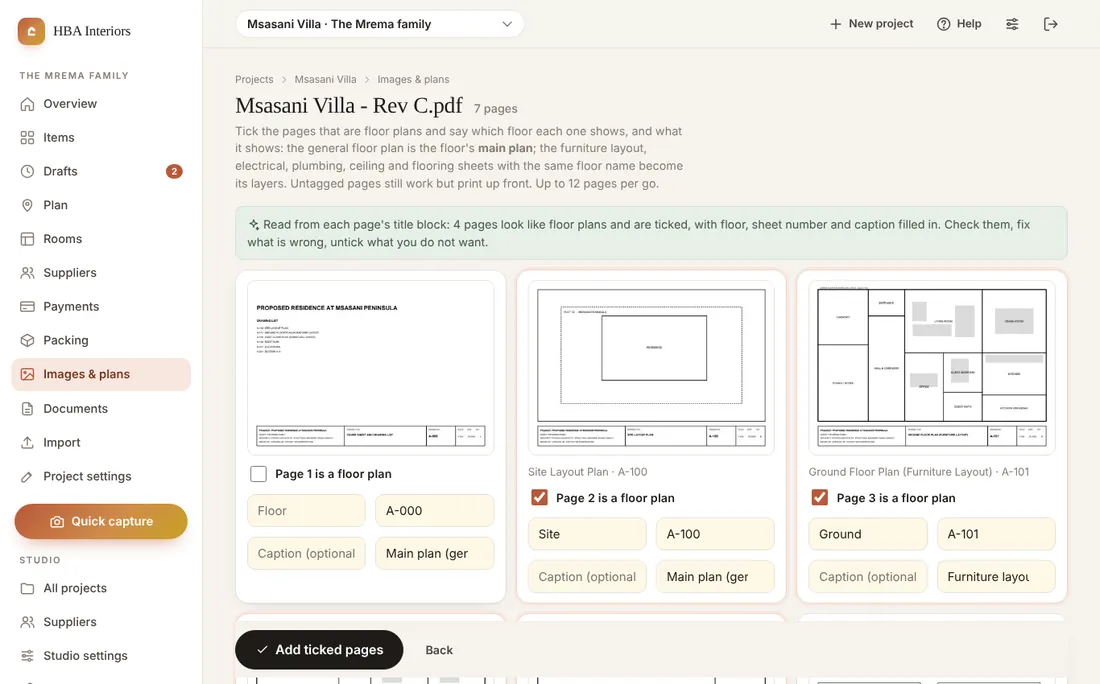
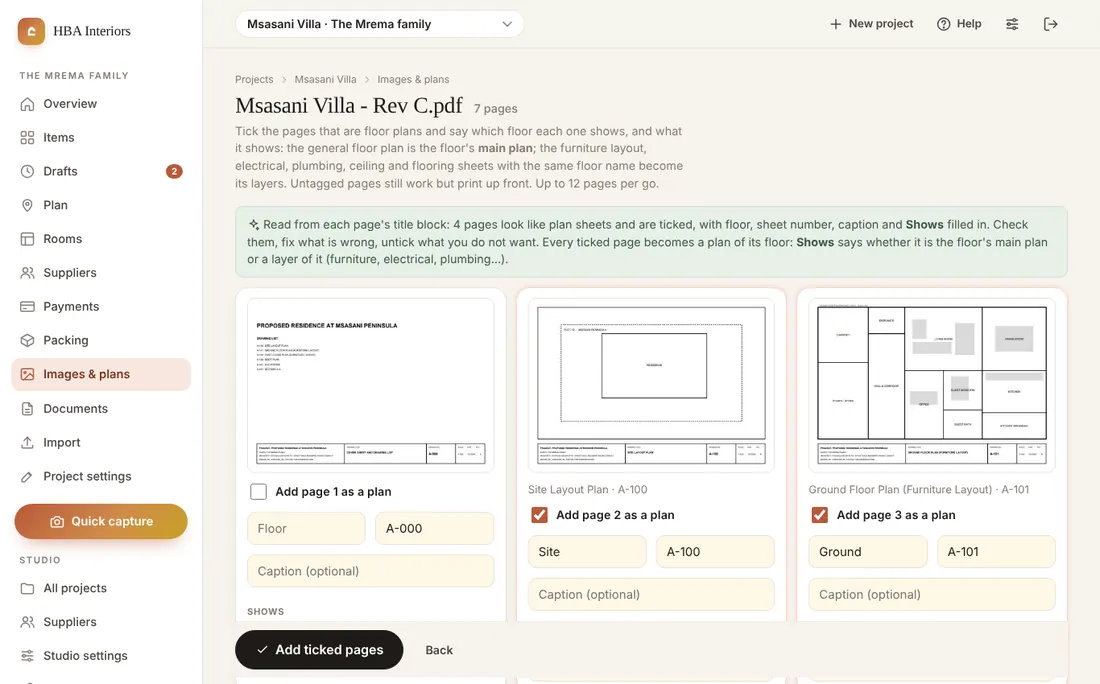
Page picker: say what the tick and the Shows box do
Every ticked page is a plan sheet; the Shows box decides whether it is the floor's main plan or a layer of it.
The tick used to read "Page n is a floor plan", which made every sheet look like the same thing, and the
Shows select had no label and truncated its options.

- Tick reads "Add page n as a plan"; the caption spans the card and the Shows select sits on its own labelled
  row, so "Main plan (general floor plan)" and the layer choices read in full.
- The reader's note explains the two roles; the page help and the guide tell how to add a sheet as a layer
  (same floor as the main plan, pick the layer under Shows).
- Guide picture regenerated; tests follow the new wording.

Claude-Session: https://claude.ai/code/session_014dEEg4ZJoqKU3XFXeCpon9

diff --git a/ffe/app/templates/projects/pdf_pages.html b/ffe/app/templates/projects/pdf_pages.html
@@ -9,7 +9,7 @@
   </div>
 </div>
 {% if err %}<div class="alert err">{{ err }}</div>{% endif %}
-{% if meta and n_suggested %}<div class="alert"><svg class="ic sm"><use href="#i-sparkle"/></svg> Read from each page's title block: {{ n_suggested }} page{{ '' if n_suggested == 1 else 's' }} look{{ 's' if n_suggested == 1 }} like {{ 'a floor plan and is' if n_suggested == 1 else 'floor plans and are' }} ticked, with floor, sheet number and caption filled in. Check them, fix what is wrong, untick what you do not want.</div>
+{% if meta and n_suggested %}<div class="alert"><svg class="ic sm"><use href="#i-sparkle"/></svg> Read from each page's title block: {{ n_suggested }} page{{ '' if n_suggested == 1 else 's' }} look{{ 's' if n_suggested == 1 }} like {{ 'a plan sheet and is' if n_suggested == 1 else 'plan sheets and are' }} ticked, with floor, sheet number, caption and <b>Shows</b> filled in. Check them, fix what is wrong, untick what you do not want. Every ticked page becomes a plan of its floor: <b>Shows</b> says whether it is the floor's main plan or a layer of it (furniture, electrical, plumbing…).</div>
 {% elif meta %}<div class="alert info">Read from each page's title block: nothing more here looks like a floor plan. Tick any page you want anyway; sheet numbers are filled in where they were found.</div>
 {% elif set.pages %}<div class="alert info">Nothing could be read from this PDF's pages (a scan, or a set uploaded before this version), so nothing is prefilled. Tick the plan pages and type the floor and sheet number.</div>{% endif %}
 <datalist id="floors">{% for f in floors %}<option value="{{ f }}">{% endfor %}</datalist>
@@ -22,12 +22,12 @@
       {% if a %}
       <div class="mt"><span class="pill sage"><svg class="ic"><use href="#i-check"/></svg>Added{% if a.floor %} · {{ plan_caption(a) }}{% endif %}</span></div>
       {% else %}
-      <label class="check mt"><input type="checkbox" name="page_{{ k }}"{% if m and m.is_plan %} checked{% endif %}> Page {{ k }} is a floor plan</label>
+      <label class="check mt"><input type="checkbox" name="page_{{ k }}"{% if m and m.is_plan %} checked{% endif %}> Add page {{ k }} as a plan</label>
       <div class="grid g2 stack mt">
         <input class="in" type="text" name="floor_{{ k }}" list="floors" value="{{ (m.floor if m and m.floor else floor) }}" placeholder="Floor" aria-label="Floor for page {{ k }}" autocomplete="off">
         <input class="in" type="text" name="sheet_{{ k }}" value="{{ (m.sheet if m and m.sheet else sheet) }}" placeholder="Sheet ref" aria-label="Sheet for page {{ k }}">
-        <input class="in" type="text" name="caption_{{ k }}" value="{{ captions.get(k, '') if m else '' }}" placeholder="Caption (optional)" aria-label="Caption for page {{ k }}">
-        <select class="in" name="layer_{{ k }}" aria-label="What page {{ k }} shows">{% set lk = layers.get(k, MAIN_LAYER) if m else MAIN_LAYER %}{% for key, title in LAYER_OPTIONS %}<option value="{{ key }}" {{ 'selected' if lk == key }}>{{ title }}</option>{% endfor %}</select>
+        <input class="in span2" type="text" name="caption_{{ k }}" value="{{ captions.get(k, '') if m else '' }}" placeholder="Caption (optional)" aria-label="Caption for page {{ k }}">
+        <div class="span2 shows"><label for="layer_{{ k }}">Shows</label><select class="in" id="layer_{{ k }}" name="layer_{{ k }}">{% set lk = layers.get(k, MAIN_LAYER) if m else MAIN_LAYER %}{% for key, title in LAYER_OPTIONS %}<option value="{{ key }}" {{ 'selected' if lk == key }}>{{ title }}</option>{% endfor %}</select></div>
       </div>
       {% endif %}
     </div>

diff --git a/ffe/app/templates/help.html b/ffe/app/templates/help.html
@@ -294,6 +294,7 @@
   <ul>
     <li>At upload, the app reads the <b>title block</b> of every page: the drawing title ("Ground Floor Plan (Furniture Layout)"), the sheet number after "Drawing No" (A-101) and the floor the title names.</li>
     <li>Pages titled floor / roof / site plan are <b>ticked</b>, with floor, sheet and caption filled in. Elevations, sections, services drawings, notes that refer to a plan and cover sheets with a drawing list are left unticked.</li>
+    <li><b>Main plan or layer?</b> Every ticked page is a plan sheet; the <b>Shows</b> box under it decides what kind. Leave "Main plan (general floor plan)" for the floor's general plan. For an electrical, plumbing, ceiling, flooring or furniture sheet, give the page the <i>same floor</i> as that main plan and choose its layer under Shows: it lands under the floor's Sheet switch on the Plan page and borrows the room boxes. The reader prefills Shows from the title ("Electrical Layout Plan" → Electrical &amp; lighting); a sheet titled only "Ground Floor Plan" is offered as the main plan, so change Shows yourself when such a sheet is really a layer.</li>
     <li>Check, correct, untick, and press <b>Add ticked pages</b>. Nothing is added until you do.</li>
     <li>A <b>scanned PDF</b> has no text to read, so nothing is prefilled: tick the plan pages and type the floor yourself.</li>
   </ul>

diff --git a/ffe/app/static/app.css b/ffe/app/static/app.css
@@ -203,6 +203,9 @@ tbody tr:hover td,tr:hover td{background:var(--surface-2)}
 td.num,th.num{text-align:right;font-variant-numeric:tabular-nums;white-space:nowrap}
 td.nowrap{white-space:nowrap}
 .tbl table td:first-child,.tbl table th:first-child{padding-left:16px}.tbl table td:last-child,.tbl table th:last-child{padding-right:16px}
+/* the page picker: the Shows select gets a label of its own, so main plan vs layer is a visible choice */
+.pages .page .shows{display:grid;gap:4px}
+.pages .page .shows label{font-size:.7rem;font-weight:700;letter-spacing:.06em;text-transform:uppercase;color:var(--muted)}
 /* sortable tables (app.js): a header with data-sort is a button; the small arrow shows the current order */
 table.sortable th[data-sort]{cursor:pointer;user-select:none}
 table.sortable th[data-sort]:hover,table.sortable th[aria-sort]{color:var(--ink)}

diff --git a/ffe/tests/test_flow.py b/ffe/tests/test_flow.py
@@ -852,7 +852,7 @@ with TestClient(app) as c:
         k.save(); return b.getvalue()
     r=c.post(f"/p/{pid}/images/plans", data={}, files=[("files",("titled.pdf",pdf_titled([("GROUND FLOOR PLAN (FURNITURE LAYOUT)","A-105"),("FRONT ELEVATION","A-301"),("FIRST FLOOR PLAN","A-106")]),"application/pdf"))], follow_redirects=False)
     tsid=int(r.headers["location"].split("/sets/")[1].split("?")[0])
-    r=c.get(f"/p/{pid}/images/sets/{tsid}"); assert r.status_code==200 and "2 pages look like floor plans" in r.text
+    r=c.get(f"/p/{pid}/images/sets/{tsid}"); assert r.status_code==200 and "2 pages look like plan sheets" in r.text
     assert 'name="page_1" checked' in r.text and 'name="page_2">' in r.text and 'name="page_3" checked' in r.text
     sel=lambda h, name: re.search(r'name="%s".*?</select>' % name, h, re.S).group(0)
     assert 'value="furnishing" selected' in sel(r.text, "layer_1") and 'value="main" selected' in sel(r.text, "layer_3")  # Ground already has a main plan: the furniture layout is a layer of it
@@ -866,9 +866,10 @@ with TestClient(app) as c:
     r=c.post(f"/p/{pid_s}/images/plans", data={}, files=[("files",("solo.pdf",pdf_titled([("GROUND FLOOR PLAN (FURNITURE LAYOUT)","A-104"),("GROUND FLOOR ELECTRICAL LAYOUT","E-01")]),"application/pdf"))], follow_redirects=False)
     r=c.get(r.headers["location"]); h=r.text
     assert 'value="main" selected' in sel(h, "layer_1") and 'name="caption_1" value="Furniture Layout"' in h and 'value="electrical" selected' in sel(h, "layer_2"), sel(h, "layer_1")
+    assert "Add page 1 as a plan" in h and '<label for="layer_2">Shows</label>' in h and "main plan or a layer of it" in h  # the picker says what the tick and the Shows box do
     r=c.post(f"/p/{pid_s}/images/plans", data={"floor":"Ground","sheet":"A-100","caption":""}, files=[("files",("g.jpg",img("white"),"image/jpeg"))], follow_redirects=False)  # now a general plan exists ...
     r=c.get(f"/p/{pid_s}/images/sets/{c.get(f'/p/{pid_s}/images').text.split('/images/sets/')[1].split('\"')[0]}"); assert 'value="furnishing" selected' in sel(r.text, "layer_1") and 'name="caption_1" value=""' in r.text  # ... so the furniture layout is prefilled as its layer
-    r=c.get(f"/p/{pid}/images/sets/{tsid}"); assert "1 page looks like a floor plan and is ticked" in r.text  # page 3 still suggested, page 1 added
+    r=c.get(f"/p/{pid}/images/sets/{tsid}"); assert "1 page looks like a plan sheet and is ticked" in r.text  # page 3 still suggested, page 1 added
     r=c.post(f"/p/{pid}/images/sets/{tsid}/pick", data={"page_3":"on","floor_3":"First","sheet_3":"A-106"}, follow_redirects=False)
     r=c.get(f"/p/{pid}/images/sets/{tsid}"); assert "nothing more here looks like a floor plan" in r.text and "look like" not in r.text
     # a scanned set (no text layer) says so and prefills nothing

diff --git a/ffe/app/help_tips.py b/ffe/app/help_tips.py
@@ -61,9 +61,10 @@ TIPS = {
     "pdf_pages": dict(
         title="Pick the plan pages", anchor="plans",
         what="Which pages of this PDF are floor plans, and which floor each one shows.",
-        steps=["The pages whose title block says floor / roof / site plan are already ticked, with floor, sheet, caption and what the sheet shows (main plan, furniture layout, electrical, plumbing, ceiling, flooring) filled in from the title.",
+        steps=["The pages whose title block says floor / roof / site plan are already ticked, with floor, sheet, caption and <b>Shows</b> (main plan, furniture layout, electrical, plumbing, ceiling, flooring) filled in from the title.",
                "Check them: fix a floor or sheet, untick what you do not want, tick what was missed.",
-               "Press <b>Add ticked pages</b>. Each one becomes a floor plan of the project."],
+               "<b>A layer is just a ticked page with another Shows.</b> Give the electrical or plumbing sheet the same floor as the floor's main plan and choose its layer under Shows; it then sits under that floor's Sheet switch on the Plan page and borrows the room boxes.",
+               "Press <b>Add ticked pages</b>. Each one becomes a plan of its floor."],
         tips=["A scanned PDF has no text to read, so nothing is prefilled: tick and type yourself.",
               "Pages already added stay even if you delete the PDF later."]),
     "plan": dict(
